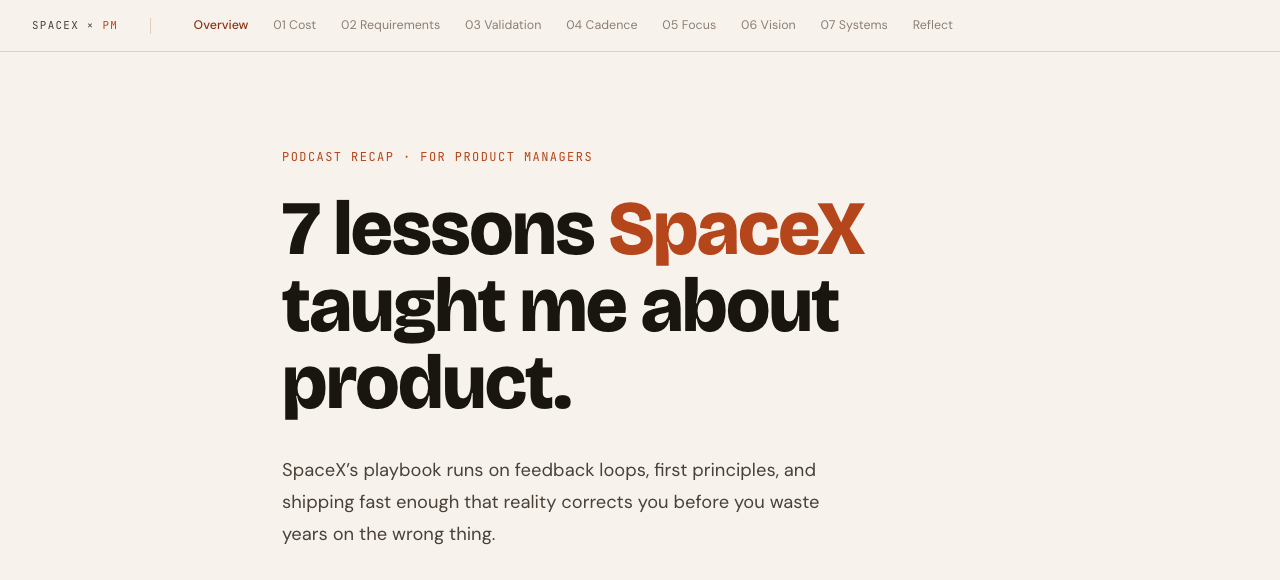
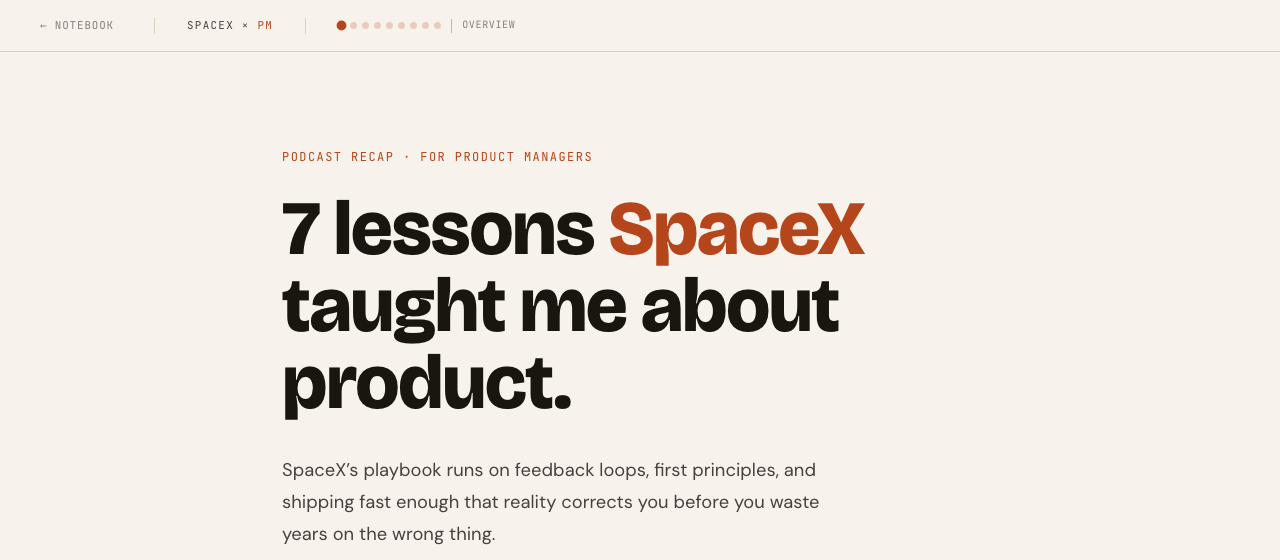
Update screenshots and README: add notebook view, slot images contextually
- New screenshot 0-notebook.png (index with all 3 cards)
- Retake 1-hero, 2-lesson, 3-reflections (current design: dot nav, Before/After)
- README: notebook screenshot slots after Step 5, note screenshots slot
  inline with prose in Example Output section
- Updated take-screenshots.js: serves via HTTP (needed for shared nav assets),
  adds notebook index shot, uses DoorDash for reflections (has Before/After)

diff --git a/take-screenshots.js b/take-screenshots.js
@@ -1,71 +1,85 @@
 /**
  * take-screenshots.js
- * Generates 3 screenshots of spacex-pm-playbook.html for the README.
+ * Generates 4 screenshots for the README:
+ *   0-notebook.png   — notebook index with cards
+ *   1-hero.png       — note hero section
+ *   2-lesson.png     — lesson 1 (pull quote + PM Translation + In Practice)
+ *   3-reflections.png — reflections section (DoorDash — has Before/After)
+ *
  * Run: node take-screenshots.js
+ * Requires: playwright (already installed), python3 (for local server)
  */
 
 const { chromium } = require('playwright');
-const path = require('path');
+const { spawn }    = require('child_process');
+const path         = require('path');
+const fs           = require('fs');
 
-const HTML_FILE = path.resolve(__dirname, 'library/notes/2026-04-09-spacex-pm-playbook.html');
-const OUT_DIR   = path.resolve(__dirname, 'screenshots');
-const FILE_URL  = `file://${HTML_FILE}`;
+const PORT    = 8765;
+const BASE    = `http://localhost:${PORT}`;
+const OUT_DIR = path.resolve(__dirname, 'screenshots');
 
-async function screenshot(page, name, clip, { waitFor } = {}) {
-  if (waitFor) await page.evaluate(waitFor);
-  await page.screenshot({
-    path: path.join(OUT_DIR, name),
-    clip,
-    animations: 'disabled',
+if (!fs.existsSync(OUT_DIR)) fs.mkdirSync(OUT_DIR);
+
+function startServer() {
+  const srv = spawn('python3', ['-m', 'http.server', String(PORT), '--directory', __dirname], {
+    stdio: 'ignore',
   });
+  // Give the server a moment to bind
+  return new Promise(resolve => setTimeout(() => resolve(srv), 800));
+}
+
+async function screenshot(page, name, clip) {
+  await page.screenshot({ path: path.join(OUT_DIR, name), clip, animations: 'disabled' });
   console.log(`✓ ${name}`);
 }
 
 (async () => {
+  const server = await startServer();
   const browser = await chromium.launch();
-  const page    = await browser.newPage();
 
-  // 1280×900 — looks like a real browser window
-  await page.setViewportSize({ width: 1280, height: 900 });
-  await page.goto(FILE_URL, { waitUntil: 'networkidle' });
+  try {
+    const page = await browser.newPage();
+    await page.setViewportSize({ width: 1280, height: 900 });
 
-  // Wait for web fonts to load
-  await page.evaluate(() => document.fonts.ready);
-  await page.waitForTimeout(600); // short extra settle for Quill CDN
+    // ── 0. NOTEBOOK INDEX ───────────────────────────────────────────────
+    await page.goto(`${BASE}/notebook/`, { waitUntil: 'networkidle' });
+    await page.evaluate(() => document.fonts.ready);
+    await page.waitForTimeout(600);
+    await screenshot(page, '0-notebook.png', { x: 0, y: 0, width: 1280, height: 900 });
 
-  // ── 1. HERO ─────────────────────────────────────────────────────────
-  // Capture from top: header (52px) + full hero section
-  await screenshot(page, '1-hero.png', { x: 0, y: 0, width: 1280, height: 580 });
+    // ── Load SpaceX note ────────────────────────────────────────────────
+    await page.goto(`${BASE}/notebook/notes/2026-04-09-spacex-pm-playbook.html`, { waitUntil: 'networkidle' });
+    await page.evaluate(() => document.fonts.ready);
+    await page.waitForTimeout(600);
 
-  // ── 2. LESSON (Lesson 1) ─────────────────────────────────────────────
-  // Scroll to lesson-1 section and capture it
-  await page.evaluate(() => {
-    document.getElementById('lesson-1').scrollIntoView({ block: 'start' });
-  });
-  await page.waitForTimeout(200);
+    // ── 1. HERO ─────────────────────────────────────────────────────────
+    await screenshot(page, '1-hero.png', { x: 0, y: 0, width: 1280, height: 560 });
 
-  const lesson1 = await page.evaluate(() => {
-    const el = document.getElementById('lesson-1');
-    const rect = el.getBoundingClientRect();
-    return { y: rect.top, height: rect.height };
-  });
+    // ── 2. LESSON 1 ──────────────────────────────────────────────────────
+    await page.evaluate(() => document.getElementById('lesson-1').scrollIntoView({ block: 'start' }));
+    await page.waitForTimeout(200);
+    const lesson1 = await page.evaluate(() => {
+      const el  = document.getElementById('lesson-1');
+      const rect = el.getBoundingClientRect();
+      return { y: rect.top, height: rect.height };
+    });
+    await screenshot(page, '2-lesson.png', {
+      x: 0, y: lesson1.y, width: 1280, height: Math.min(lesson1.height, 820),
+    });
 
-  // Clamp height to a readable window — lesson can be tall
-  const lessonH = Math.min(lesson1.height, 820);
-  await screenshot(page, '2-lesson.png', { x: 0, y: lesson1.y, width: 1280, height: lessonH });
+    // ── 3. REFLECTIONS (DoorDash — has Before/After structure) ───────────
+    await page.goto(`${BASE}/notebook/notes/2026-04-11-doordash-investor-playbook.html`, { waitUntil: 'networkidle' });
+    await page.evaluate(() => document.fonts.ready);
+    await page.waitForTimeout(600);
+    await page.evaluate(() => document.getElementById('reflect').scrollIntoView({ block: 'start' }));
+    await page.waitForTimeout(300);
+    const reflectY = await page.evaluate(() => document.getElementById('reflect').getBoundingClientRect().top);
+    await screenshot(page, '3-reflections.png', { x: 0, y: reflectY, width: 1280, height: 720 });
 
-  // ── 3. REFLECTIONS ───────────────────────────────────────────────────
-  await page.evaluate(() => {
-    document.getElementById('reflect').scrollIntoView({ block: 'start' });
-  });
-  await page.waitForTimeout(300);
-
-  const reflectY = await page.evaluate(() => {
-    return document.getElementById('reflect').getBoundingClientRect().top;
-  });
-
-  await screenshot(page, '3-reflections.png', { x: 0, y: reflectY, width: 1280, height: 680 });
-
-  await browser.close();
-  console.log('\nAll screenshots saved to screenshots/');
+  } finally {
+    await browser.close();
+    server.kill();
+    console.log('\nAll screenshots saved to screenshots/');
+  }
 })();

diff --git a/README.md b/README.md
@@ -32,6 +32,8 @@ The workflow is designed around how your memory actually works, not around ideal
 
 **Step 5 — Browse your notebook.** Every note is automatically saved to `notebook/` and appears in your personal notebook at `https://[your-username].github.io/podcast-recap/notebook/`. Filter by persona, search by source, see everything you've captured in one place.
 
+![Notebook index showing three notes filtered by persona](screenshots/0-notebook.png)
+
 **Step 6 — Revisit on a schedule.** *(Coming soon: cron job integration.)* A spaced repetition system resurfaces past notes at the right intervals to move knowledge from short-term memory into long-term retention. The goal is to read it multiple times, not once, so it actually changes how you work.
 
 ---
@@ -168,26 +170,26 @@ Common roles have custom labels built in (e.g., `founder` → "The Founder Lens 
 
 ## Example output
 
-[**Browse the Note Library →**](notebook/) — all generated notes in one place, with search, persona filters, and dark/light mode.
-
 [**View the SpaceX PM Note**](notebook/notes/2026-04-09-spacex-pm-playbook.html) — a full recap generated from "Atoms Are Cheap, Process Is Pricey" by Max Olson, analyzed through the lens of a product manager.
 
 > **Note:** The notebook uses `fetch()` to load the manifest, so it requires a server — it won't work if you double-click the file. Run `python3 -m http.server 8765 --directory notebook` and open `http://localhost:8765` to browse locally, or use the GitHub Pages URL.
 
-![Hero section showing the title and source citation](screenshots/1-hero.png)
+Each note opens with a hero section — the title, source citation, and a one-paragraph intro that frames the analysis:
 
-![Lesson 1 — pull quote, PM Translation, and In Practice action](screenshots/2-lesson.png)
+![Hero section showing the title, dot nav, and source citation](screenshots/1-hero.png)
 
-![Reflections section with the Quill rich-text editor](screenshots/3-reflections.png)
+Each big idea gets its own lesson block: a pull quote from the source, a role-specific translation (here, "The PM Translation"), and a concrete action to take:
 
-Each note includes:
-- Pull quotes from the source
-- Role-specific translation of each big idea
-- A concrete "In Practice" action per theme
-- A Quill-based reflection section (saves to your browser's localStorage)
-- Single-scroll layout with sticky nav and reading progress bar
-- **← Notebook** back link in the header — always present, returns you to your podcast notebook
-- **Source link** in the hero — clickable link to the original YouTube video, podcast episode, or essay
+![Lesson 1 — pull quote, PM Translation, and In Practice callout](screenshots/2-lesson.png)
+
+At the end, a reflections section captures what you brought into the reading and leaves space for what surfaced after:
+
+![Reflections section — Before reading callout and After reading editor](screenshots/3-reflections.png)
+
+Other details:
+- Sticky dot nav with reading progress bar and active section label
+- **← Notebook** back link — always present, returns you to the index
+- localStorage auto-save on the reflection editor
 
 ---
 
